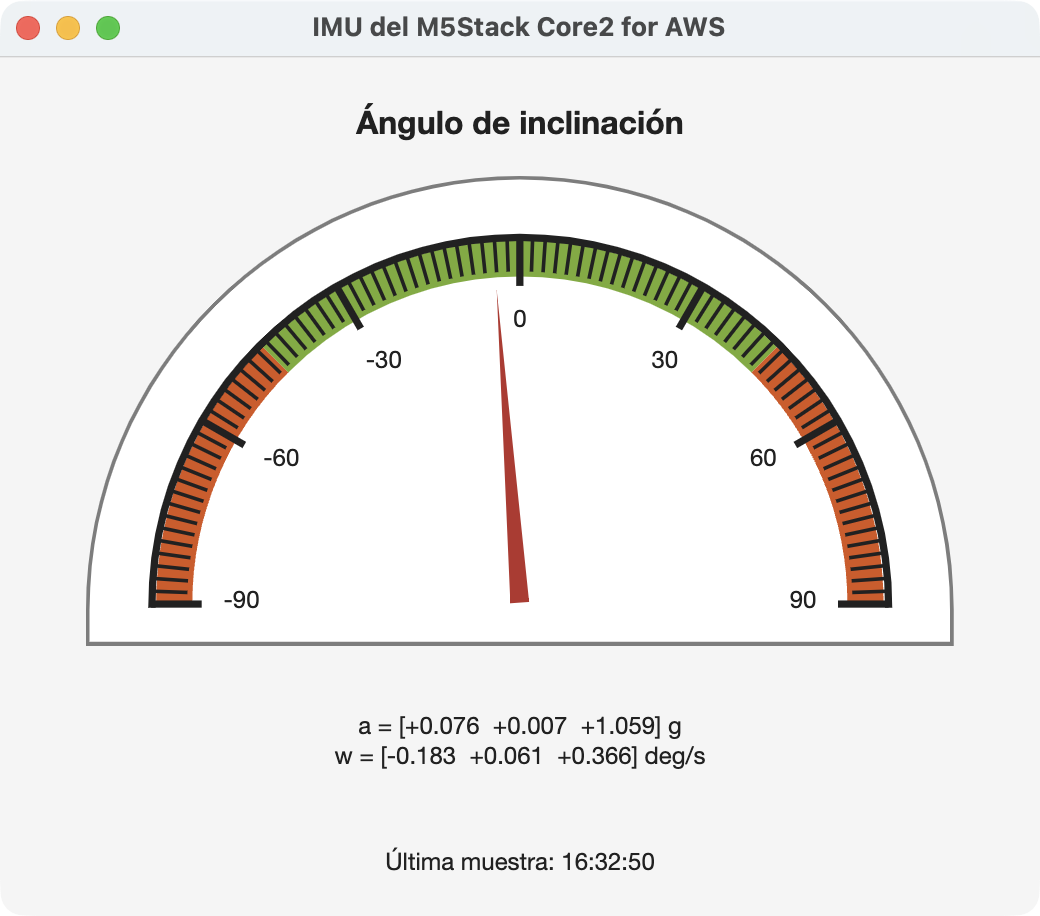
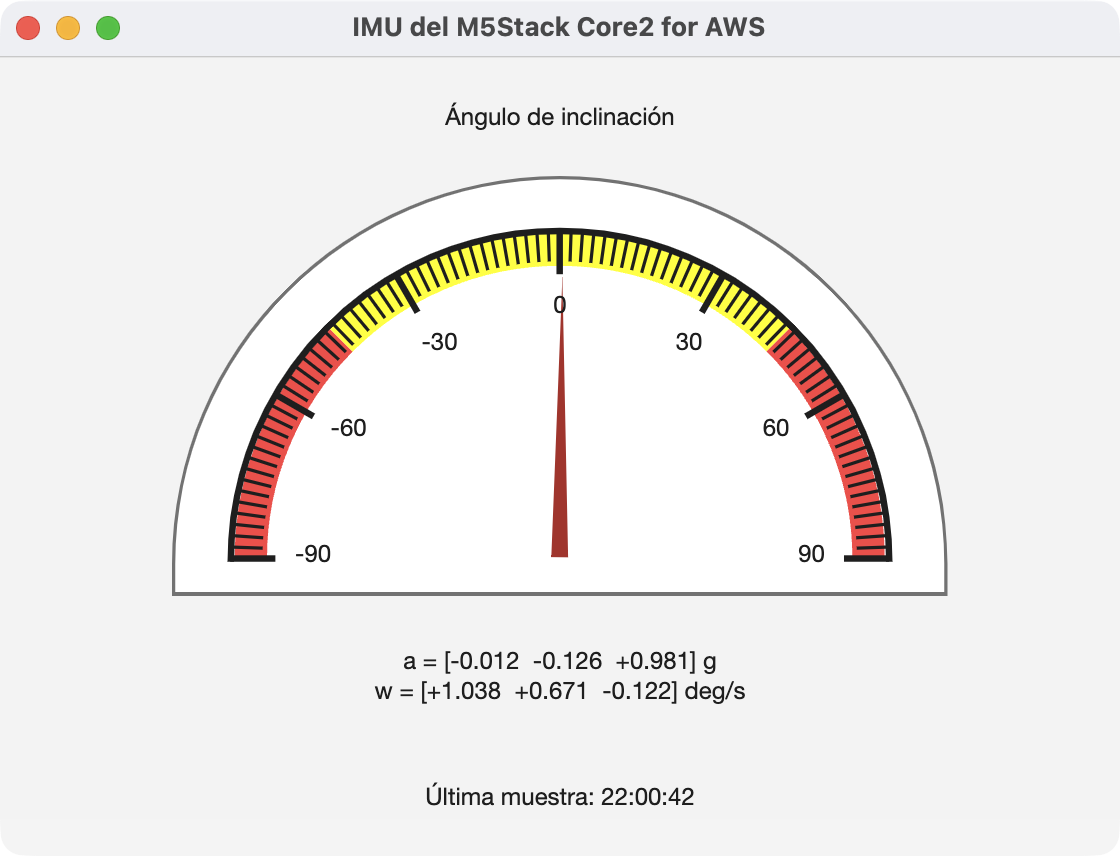
Add files via upload

diff --git a/html/imu-m5stack-matlab.html b/html/imu-m5stack-matlab.html
@@ -18,7 +18,7 @@
                 <p class="article-kicker">Tutorial</p>
                 <h1>Lectura de la IMU del M5Stack Core2 for AWS</h1>
                 <p class="subtitle">Adquiere aceleraciones y velocidades angulares con PlatformIO/Arduino y
-                    actualiza un Gauge de MATLAB mediante eventos del puerto serial.</p>
+                    actualiza un Gauge desde una aplicación MATLAB orientada a objetos.</p>
                 <div class="article-meta">
                     <span><strong>Ildeberto de los Santos Ruiz</strong></span><span></span>
                     <span>Septiembre, 2026</span>
@@ -248,185 +248,154 @@ IMU,0.012207,-0.034180,0.996826,0.106812,-0.045776,0.030518</script>
                 <code>/dev/tty.*</code> del mismo convertidor.
             </p>
 
-            <h2>Interfaz MATLAB con Gauge y callback serial</h2>
+            <h2>Aplicación MATLAB orientada a objetos</h2>
 
-            <p>Crea un archivo llamado <code>m5IMUGauge.m</code> con el código siguiente:</p>
+            <p>Crea un archivo llamado <code>LeerIMU.m</code> con el código siguiente. Antes de ejecutarlo, sustituye
+                el valor de <code>portName</code> por el puerto correspondiente a tu equipo:</p>
 
-            <script type="text/matlab">function m5IMUGauge(portName)
-%M5IMUGAUGE Muestra la inclinación del M5Stack en un Gauge.
-%
-% Ejemplos:
-%   m5IMUGauge("COM7")
-%   m5IMUGauge("/dev/cu.SLAB_USBtoUART")
+            <script type="text/matlab">classdef LeerIMU < handle
+    %M5IMUGAUGE Muestra la inclinación del M5Stack en un Gauge.
 
-arguments
-    portName (1,1) string
-end
+    properties (Access = private)
+        Port
+        Figure
+        Gauge
+        SensorLabel
+        StatusLabel
+    end
 
-delete(serialportfind)
+    methods
+        function app = LeerIMU()
+            % Cambiar por el puerto serial correspondiente.
+            portName = "/dev/cu.usbserial-0237B32D";
+            baudRate = 115200;
 
-baudRate = 115200;
+            % Cerrar puertos abiertos
+            delete(serialportfind)
 
-% Abrir el puerto serial.
-device = serialport(portName, baudRate, "Timeout", 2);
+            % Abrir y configurar el puerto serial.
+            app.Port = serialport(portName, baudRate, "Timeout", 2);
+            configureTerminator(app.Port, "LF");
 
-% Cada trama debe terminar con LF (\n).
-configureTerminator(device, "LF");
+            % Crear la interfaz.
+            app.Figure = uifigure( ...
+                "Name", "IMU del M5Stack Core2 for AWS", ...
+                "Position", [100 100 560 400]);
 
-% Algunas placas ESP32 se reinician al abrir el puerto.
-pause(1.5);
+            layout = uigridlayout(app.Figure, [4 1]);
+            layout.RowHeight = {40, "1x", 60, 40};
 
-% Eliminar datos recibidos durante el reinicio.
-flush(device);
+            uilabel(layout, ...
+                "Text", "Ángulo de inclinación", ...
+                "HorizontalAlignment", "center");
 
-% Construcción de la interfaz.
-fig = uifigure( ...
-    "Name", "IMU del M5Stack Core2 for AWS", ...
-    "Position", [100 100 520 430]);
+            % Crear el Gauge con los colores predeterminados.
+            app.Gauge = uigauge(layout, "semicircular");
+            app.Gauge.Limits = [-90 90];
+            app.Gauge.MajorTicks = -90:30:90;
+            app.Gauge.ScaleColors = [1 0.3 0.3; 1 1 0; 1 0.3 0.3];
+            app.Gauge.ScaleColorLimits = [-90 -45; -45 45; 45 90];
 
-layout = uigridlayout(fig, [4 1]);
-layout.RowHeight = {35, "1x", 75, 25};
-layout.Padding = [20 15 20 15];
+            app.SensorLabel = uilabel(layout, ...
+                "HorizontalAlignment", "center", ...
+                "WordWrap", "on");
 
-% Título.
-uilabel(layout, ...
-    "Text", "Ángulo de inclinación", ...
-    "FontSize", 16, ...
-    "FontWeight", "bold", ...
-    "HorizontalAlignment", "center");
+            app.StatusLabel = uilabel(layout, ...
+                "Text", ...
+                "Puerto abierto. Esperando la primera muestra...", ...
+                "HorizontalAlignment", "center");
 
-% Indicador de inclinación.
-gauge = uigauge(layout, "semicircular");
-gauge.Limits = [-90 90];
-gauge.MajorTicks = -90:30:90;
-gauge.Value = 0;
+            % Configurar los callbacks.
+            app.Figure.CloseRequestFcn = ...
+                @(~, ~) delete(app);
 
-gauge.ScaleColors = [ ...
-    0.85 0.33 0.10;
-    0.47 0.67 0.19;
-    0.85 0.33 0.10];
+            configureCallback( ...
+                app.Port, ...
+                "terminator", ...
+                @(obj, evt) app.updateGauge(obj, evt));
 
-gauge.ScaleColorLimits = [ ...
-    -90 -45;
-    -45  45;
-     45  90];
+            disp("Interfaz activa. Cierra la ventana para liberar el puerto serial.")
+            movegui(app.Figure, "center")
+        end
 
-% Etiqueta destinada exclusivamente a las mediciones.
-rawLabel = uilabel(layout, ...
-    "Text", sprintf( ...
-        'a = [---  ---  ---] g\nw = [---  ---  ---] deg/s'), ...
-    "HorizontalAlignment", "center", ...
-    "WordWrap", "on");
+        function delete(app)
+            % Liberar el puerto serial.
+            if ~isempty(app.Port) && isvalid(app.Port)
+                configureCallback(app.Port, "off");
+                delete(app.Port);
+            end
 
-% Etiqueta destinada al estado de la conexión.
-statusLabel = uilabel(layout, ...
-    "Text", "Puerto abierto. Esperando la primera muestra...", ...
-    "HorizontalAlignment", "center");
+            % Cerrar la ventana.
+            if ~isempty(app.Figure) && isvalid(app.Figure)
+                app.Figure.CloseRequestFcn = [];
+                delete(app.Figure);
+            end
+        end
+    end
 
-% Guardar los controles que utilizará el callback.
-device.UserData = struct( ...
-    "Figure", fig, ...
-    "Gauge", gauge, ...
-    "RawLabel", rawLabel, ...
-    "StatusLabel", statusLabel);
+    methods (Access = private)
+        function updateGauge(app, obj, ~)
+            % Procesar una trama recibida.
 
-% Conservar la referencia al puerto para cerrarlo junto con la figura.
-fig.UserData = device;
-fig.CloseRequestFcn = @closeApplication;
+            line = readline(obj);
 
-% Ejecutar updateGauge cuando se reciba una línea completa.
-configureCallback(device, "terminator", @updateGauge);
+            if isempty(app.Figure) || ~isvalid(app.Figure)
+                return
+            end
 
-disp("Interfaz activa. Cierra la ventana para liberar el puerto serial.")
-end
+            if line == "READY"
+                app.StatusLabel.Text = "M5Stack listo";
+                return
+            end
 
+            if startsWith(line, "ERROR")
+                app.StatusLabel.Text = line;
+                return
+            end
 
-function updateGauge(device, ~)
-%UPDATEGAUGE Procesa una trama recibida por el puerto serial.
+            % Formato esperado: IMU,ax,ay,az,gx,gy,gz
+            values = sscanf(line, "IMU,%f,%f,%f,%f,%f,%f");
 
-line = strtrim(readline(device));
-state = device.UserData;
+            if numel(values) ~= 6
+                app.StatusLabel.Text = "Trama ignorada: " + line;
+                return
+            end
 
-% Verificar que la ventana siga abierta.
-if ~isvalid(state.Figure)
-    return
-end
+            ax = values(1);
+            ay = values(2);
+            az = values(3);
+            gx = values(4);
+            gy = values(5);
+            gz = values(6);
 
-% Mensaje de inicialización enviado por el M5Stack.
-if line == "READY"
-    state.StatusLabel.Text = ...
-        "M5Stack listo. Esperando la primera muestra...";
-    return
-end
+            % Calcular el ángulo de inclinación.
+            pitch = atan2d(-ax, hypot(ay, az));
 
-% Mensaje de error enviado por el M5Stack.
-if startsWith(line, "ERROR")
-    state.StatusLabel.Text = line;
-    return
-end
+            % Limitar el ángulo al intervalo del Gauge.
+            pitch = max(app.Gauge.Limits(1), ...
+                min(app.Gauge.Limits(2), pitch));
 
-% Formato esperado:
-% IMU,ax,ay,az,gx,gy,gz
-values = sscanf(char(line), "IMU,%f,%f,%f,%f,%f,%f");
+            app.Gauge.Value = pitch;
 
-if numel(values) ~= 6
-    state.StatusLabel.Text = "Trama ignorada: " + line;
-    return
-end
+            app.SensorLabel.Text = sprintf( ...
+                ['a = [%+.3f  %+.3f  %+.3f] g\n' ...
+                 'w = [%+.3f  %+.3f  %+.3f] deg/s'], ...
+                ax, ay, az, gx, gy, gz);
 
-% Extraer las mediciones.
-ax = values(1);
-ay = values(2);
-az = values(3);
-gx = values(4);
-gy = values(5);
-gz = values(6);
-
-% Calcular el ángulo de inclinación.
-pitch = atan2d(-ax, hypot(ay, az));
-
-% Limitar el valor al intervalo del Gauge.
-pitch = max( ...
-    state.Gauge.Limits(1), ...
-    min(state.Gauge.Limits(2), pitch));
-
-% Actualizar el Gauge.
-state.Gauge.Value = pitch;
-
-% Actualizar la etiqueta de mediciones.
-state.RawLabel.Text = sprintf( ...
-    ['a = [%+.3f  %+.3f  %+.3f] g\n' ...
-     'w = [%+.3f  %+.3f  %+.3f] deg/s'], ...
-    ax, ay, az, gx, gy, gz);
-
-% Actualizar la etiqueta de estado.
-state.StatusLabel.Text = "Última muestra: " + ...
-    string(datetime("now", "Format", "HH:mm:ss"));
-
-drawnow limitrate
-end
-
-
-function closeApplication(fig, ~)
-%CLOSEAPPLICATION Desactiva el callback y libera el puerto serial.
-
-device = fig.UserData;
-
-if isa(device, "serialport") && isvalid(device)
-    configureCallback(device, "off");
-    delete(device);
-end
-
-delete(fig)
+            app.StatusLabel.Text = ...
+                "Última muestra: " + ...
+                string(datetime("now", "Format", "HH:mm:ss"));
+        end
+    end
 end</script>
 
-            <p>Guarda el archivo y llama a la función con el puerto detectado. Por ejemplo, en Windows:</p>
+            <p>Guarda el archivo y crea una instancia de la clase:</p>
 
-            <script type="text/matlab">m5IMUGauge("COM7")</script>
+            <script type="text/matlab">app = LeerIMU;</script>
 
-            <p>En macOS, la llamada puede tener esta forma:</p>
-
-            <script type="text/matlab">m5IMUGauge("/dev/cu.SLAB_USBtoUART")</script>
+            <p>El constructor abrirá el puerto configurado en <code>portName</code>, creará la interfaz y dejará activo
+                el callback serial. En Windows puedes usar un nombre como <code>"COM7"</code>; en macOS, uno como
+                <code>"/dev/cu.SLAB_USBtoUART"</code>.</p>
 
             <p>Al inclinar el M5Stack alrededor del eje transversal, la aguja reaccionará cuando llegue la siguiente
                 muestra. Como el periodo es de un segundo, la actualización se verá deliberadamente pausada.</p>
@@ -444,10 +413,14 @@ end</script>
 
             <p>La instrucción central es:</p>
 
-            <script type="text/matlab">configureCallback(device, "terminator", @updateGauge);</script>
+            <script type="text/matlab">configureCallback( ...
+    app.Port, ...
+    "terminator", ...
+    @(obj, evt) app.updateGauge(obj, evt));</script>
 
-            <p>MATLAB no consulta periódicamente si llegaron datos. El objeto <code>serialport</code> vigila el flujo de
-                entrada y genera un evento cada vez que encuentra el terminador LF. Entonces llama a
+            <p>MATLAB no consulta periódicamente si llegaron datos. El objeto <code>serialport</code>, almacenado en
+                <code>app.Port</code>, vigila el flujo de entrada y genera un evento cada vez que encuentra el
+                terminador LF. La función anónima conserva la referencia a la aplicación y llama al método privado
                 <code>updateGauge</code>, que realiza cuatro operaciones:
             </p>
 
@@ -455,27 +428,28 @@ end</script>
                 <li>Lee la línea completa mediante <code>readline</code>.</li>
                 <li>Verifica que la trama comience con <code>IMU</code> y contenga seis valores.</li>
                 <li>Calcula el ángulo de inclinación.</li>
-                <li>Asigna el resultado a <code>state.Gauge.Value</code> y actualiza las etiquetas.</li>
+                <li>Asigna el resultado a <code>app.Gauge.Value</code> y actualiza las etiquetas.</li>
             </ol>
 
-            <p>El cierre de la ventana tiene su propio callback, <code>closeApplication</code>. Su función es desactivar
-                la recepción asíncrona y eliminar el objeto serial para dejar disponible el puerto.</p>
+            <p>La clase hereda de <code>handle</code>, por lo que sus callbacks trabajan sobre la misma instancia. Al
+                cerrar la ventana se ejecuta <code>delete(app)</code>; este método desactiva la recepción asíncrona,
+                elimina el objeto serial y cierra la interfaz, dejando disponible el puerto.</p>
 
             <h2>Cambiar la variable mostrada</h2>
 
             <p>Si se desea mostrar directamente la aceleración en el eje <code>x</code>, cambia los límites del Gauge:
             </p>
 
-            <script type="text/matlab">gauge.Limits = [-2 2];
-gauge.MajorTicks = -2:0.5:2;</script>
+            <script type="text/matlab">app.Gauge.Limits = [-2 2];
+app.Gauge.MajorTicks = -2:0.5:2;</script>
 
             <p>Después sustituye:</p>
 
-            <script type="text/matlab">state.Gauge.Value = pitch;</script>
+            <script type="text/matlab">app.Gauge.Value = pitch;</script>
 
             <p>por:</p>
 
-            <script type="text/matlab">state.Gauge.Value = max(-2, min(2, ax));</script>
+            <script type="text/matlab">app.Gauge.Value = max(-2, min(2, ax));</script>
 
             <p>Para representar <code>gx</code> puede utilizarse, por ejemplo, un intervalo de \([-250,250]\) grados por
                 segundo. Los límites adecuados dependen del rango del sensor y de la dinámica del experimento.</p>
